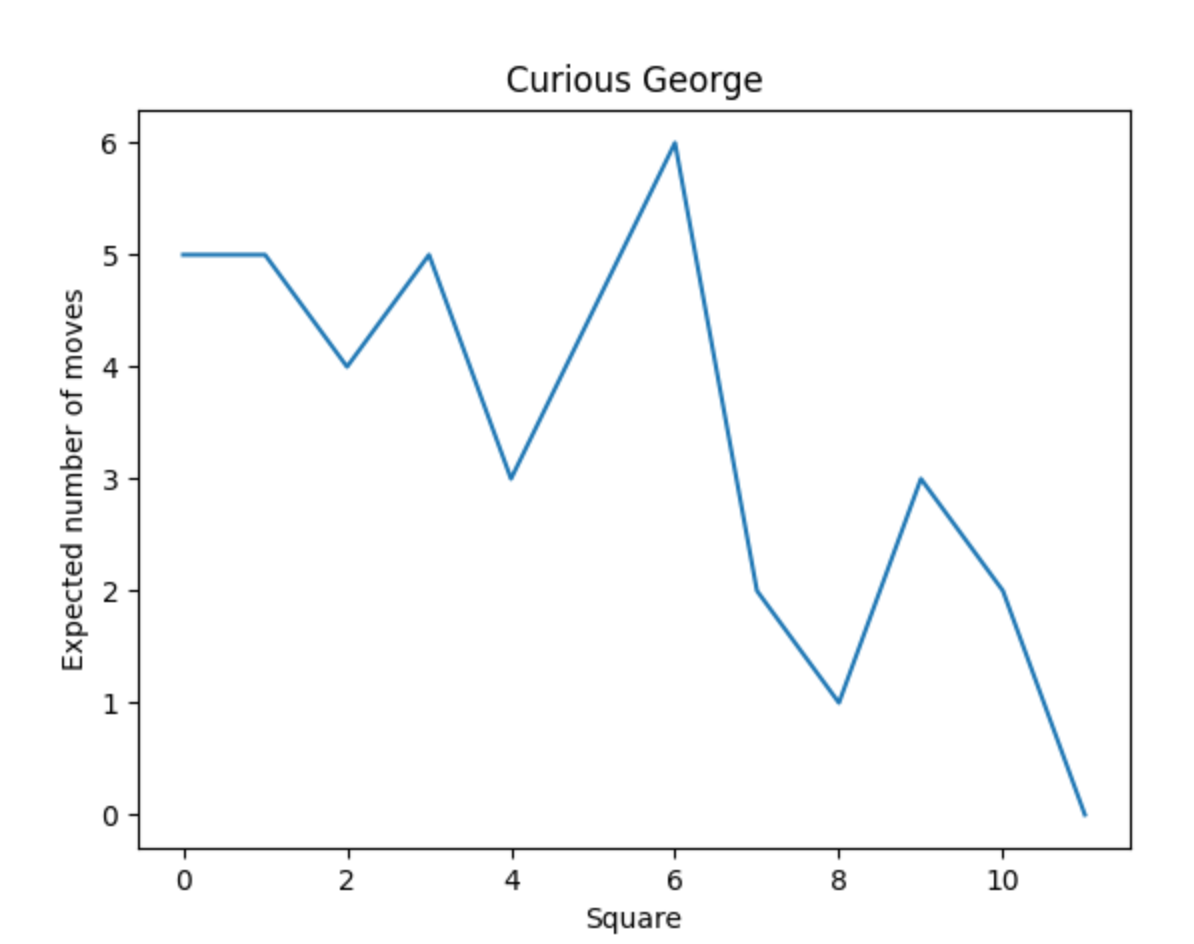
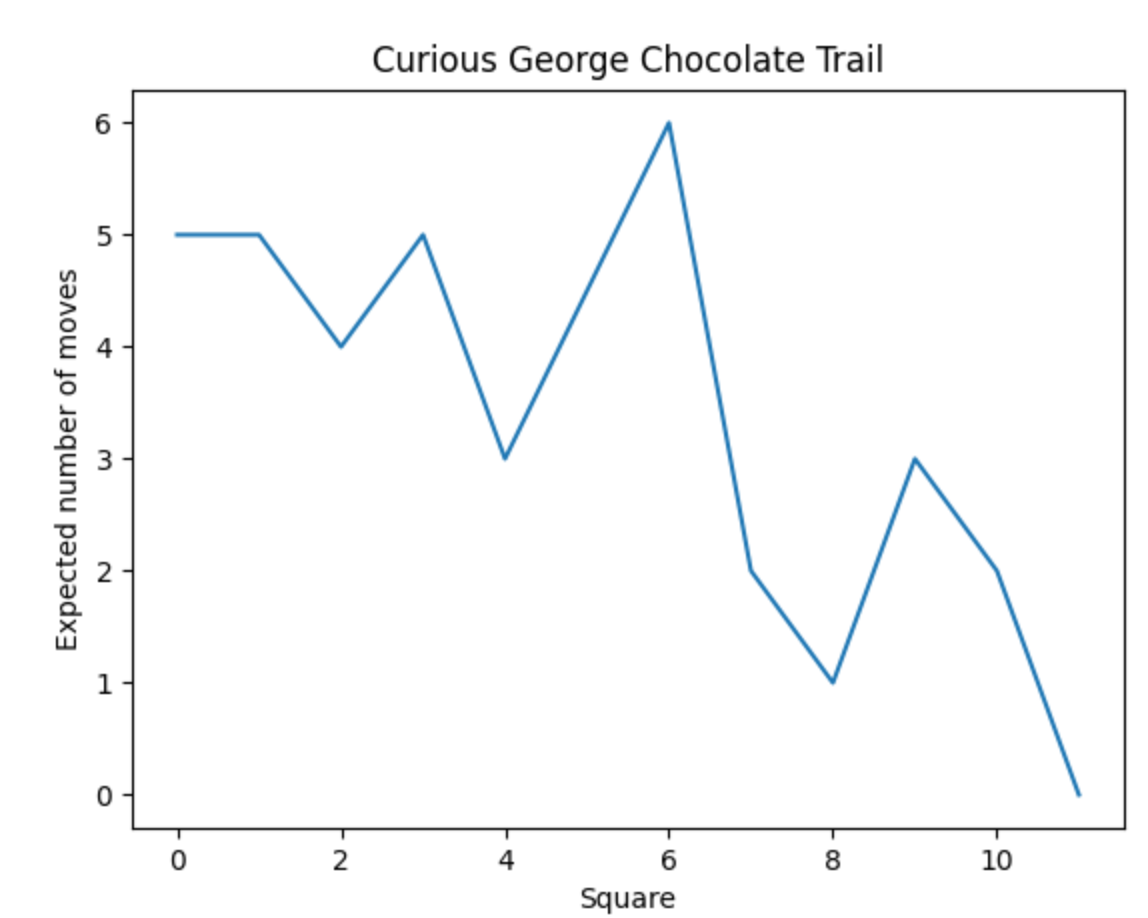
Add the mode, completing the trifecta of measures of central tendency (mean, median, and mode.) Add graphs of the pmf and cmf of winning the game.

diff --git a/markov.py b/markov.py
@@ -1,7 +1,6 @@
 import numpy as np
 import matplotlib.pyplot as plt
 
-
 class Game:
     def __init__(self, name, n, m, jumps):
         self.jumps = jumps
@@ -10,6 +9,7 @@ class Game:
         self.m = m  # range of forward moves
         self.P = np.zeros((n + 1, n + 1))  # transition matrix
         self.N = np.eye(n)  # fundamental matrix
+        self.upper_bound = 1000
 
         # P matrix is the full probability transition matrix, including square 0 and the final absorbing state
         # Q matrix is the transition matrix without the final absorbing state
@@ -31,6 +31,8 @@ class Game:
         # N, fundamental matrix, is the inverse of I - Q
         self.N = np.linalg.inv(np.eye(self.n) - Q)
 
+        self.upper_bound = self.moves_for_3_nines()
+
     # Expected number of moves to reach the end of the board
     def expected_moves(self):
         # sum the rows of the N matrix
@@ -46,32 +48,94 @@ class Game:
         plt.title(self.name)
         plt.show()
 
-    def probability_of_completion(self, n_moves):
+    # Probability of reaching the end of the board in <= n moves
+    def probability_of_completion_by(self, n_moves):
         # Compute the n-step transition matrix
         Pn = np.linalg.matrix_power(self.P, n_moves)
 
         # The probability of transitioning from square 0 to the absorbing state in n moves
         return Pn[0][self.n]
 
+    # Plot the cumulative mass function (cmf)
+    def plot_cmf(self):
+        cumulative_prob = [self.probability_of_completion_by(n) for n in range(self.upper_bound)]
+        plt.bar(range(self.upper_bound), cumulative_prob)
+        plt.xlabel('Number of moves')
+        plt.ylabel('Probability of completion by n moves')
+        plt.title("Cumulative Probability of Winning " + self.name)
+        plt.show()
+
+    # Probability of reaching the end of the board in exactly n moves
+    def probability_of_completion_at(self, n_moves):
+        if n_moves == 0:
+            return 0
+        return self.probability_of_completion_by(n_moves) - self.probability_of_completion_by(n_moves - 1)
+
+    # Plot the probability mass function (pmf)
+    def plot_pmf(self):
+        prob = [self.probability_of_completion_at(n) for n in range(self.upper_bound)]
+        # plot bar graph
+        plt.bar(range(self.upper_bound), prob)
+        median = self.median_moves()
+        expected = self.expected_moves()[0]
+        mode = self.mode_moves()
+        plt.axvline(x=expected, color='g', linestyle='--', label='Expected')
+        for m in mode:
+            plt.axvline(x=m, color='b', linestyle='--', label='Mode')
+        plt.axvline(x=median, color='r', linestyle='--', label='Median')
+        plt.xlabel('Number of moves')
+        plt.ylabel('Probability of completion at n moves')
+        plt.title("Probability of Winning " + self.name)
+        plt.legend()
+        plt.show()
+
+    # for discrete distributions, the median is the smallest value of X for which P(X≤m) ≥ 1/2.
     def median_moves(self):
-        # use binary search to find the median number of moves
+        # use binary search
         lo = 0
-        hi = 1000
+        hi = self.upper_bound
         while lo < hi:
             mid = (lo + hi) // 2
-            if self.probability_of_completion(mid) < 0.5:
+            if self.probability_of_completion_by(mid) < 0.5:
                 lo = mid + 1
             else:
                 hi = mid
         return lo
 
+    def mode_moves(self):
+        # find the mode number of moves
+        mode = [0]
+        max_prob = 0
+        for n_moves in range(1, self.upper_bound):
+            prob = self.probability_of_completion_at(n_moves)
+            if prob > max_prob:
+                max_prob = prob
+                mode = [n_moves]
+            elif prob == max_prob:
+                mode.append(n_moves)
+            else:
+                return mode
+        return mode
+
     def min_moves(self):
         # use binary search to find the minimum number of moves
+        lo = 0
+        hi = self.upper_bound
+        while lo < hi:
+            mid = (lo + hi) // 2
+            if self.probability_of_completion_by(mid) == 0:
+                lo = mid + 1
+            else:
+                hi = mid
+        return lo
+
+    # Smallest number of moves such that the probability of winning is at least 99.9%
+    def moves_for_3_nines(self):
         lo = 0
         hi = 1000
         while lo < hi:
             mid = (lo + hi) // 2
-            if self.probability_of_completion(mid) == 0:
+            if self.probability_of_completion_by(mid) < .999:
                 lo = mid + 1
             else:
                 hi = mid

diff --git a/main.py b/main.py
@@ -7,15 +7,22 @@ chutes_and_ladders_jumps = {2: 19, 4: 14, 8: 31, 16: 6, 21: 42, 28: 84, 36: 44, 
 
 if __name__ == '__main__':
     Chutes_And_Ladders = Game("Chutes and Ladders", 100, 6, chutes_and_ladders_jumps)
-    Curious_George = Game("Curious George", 11, 2, curious_george_jumps)
+    Curious_George = Game("Curious George Chocolate Trail", 11, 2, curious_george_jumps)
     games = [Chutes_And_Ladders, Curious_George]
     for game in games:
         print(game.name)
-        print("Expected number of moves to complete the game:", game.expected_moves()[0])
-        game.plot_expected_moves()
-        print("Median number of moves to complete the game:", game.median_moves())
-        print("Minimum number of moves to complete the game:", game.min_moves())
-        print("Standard deviation of the number of moves to complete the game:", game.std_dev()[0])
+        # print(game.probability_of_completion_by(32))
+        # print(game.probability_of_completion_by(33))
+        # print(game.probability_of_completion_by(34))
+        # print("Expected value:", game.expected_moves()[0])
+        # print("Mode:", game.mode_moves())
+        # print("Median:", game.median_moves())
+        # print("Minimum:", game.min_moves())
+        # print("Standard deviation:", game.std_dev()[0])
+        # game.plot_expected_moves()
+        # game.plot_pmf()
+        # print(game.probability_of_completion_by(4))
+        game.plot_cmf()
         print()
 
 

diff --git a/README.md b/README.md
@@ -11,20 +11,31 @@ The game begins on square 0, representing the off-board state.
 The final square is an absorbing state; once a player reaches it, they cannot leave.
 
 This repository uses the properties of Markov chains to calculate various statistics of a single-player game.
-* Expected number of moves to finish the game (39.8593 moves from square 0)
-* Probability of finishing the game by a given number of moves (33 is the median)
-* Standard deviation of the number of moves to finish the game (25.9649 moves from square 0)
-* Minimum number of moves to finish the game (6 moves)
+* Expected value of number of moves to win game: 39.8592604644135
+* Mode (most common number of moves that wins a game): 22
+* Median (50% of games finish by this number of moves): 33
+* Minimum (the smallest number of moves that can win): 6
+* Standard deviation: 25.96486891240239
 
+## Graphs
+### Expected Number of Moves Per Starting Square
 This graph shows the expected number of moves to finish the game when starting on each square. 
 If the starting square is at the bottom of a ladder or the top of a chute, the only possible next move is to take the ladder or chute.
+For example, the 80 square is at the bottom of a ladder to square 100, so its expected number of moves to finish the game is 1.
 ![chutes_and_ladders_expected_moves.png](img/chutes_and_ladders_expected_moves.png)
+
+### Probability of Winning At Nth Move
+![chutes_and_ladders_pmf.png](img%2Fchutes_and_ladders_pmf.png)
+
+### Probability of Winning By Nth Move
+This is just the integral of the previous graph.
+![chutes_and_ladders_cmf.png](img%2Fchutes_and_ladders_cmf.png)
 
 # Curious George
 
 On the back cover of the children's story *Curious George Goes to the Chocolate Factory*, is another such Markov chain game, but with 11 squares and a coin toss mapping to 1 or 2 squares forward.
 ![curious_george.jpg](img/curious_george.jpg)
-Here is its graph of the expected number of moves. The expected number of moves to finish the game is only 5, and the game could be finished in as few as 3 moves.
+Here is its graph of the expected number of moves to win per square. Square 6 takes you back to the beginning, so its expected number of moves is 1 more than square 0's.
 ![curious_george_expected_moves.png](img/curious_george_expected_moves.png)
 ### References
 * https://en.wikipedia.org/wiki/Absorbing_Markov_chain
